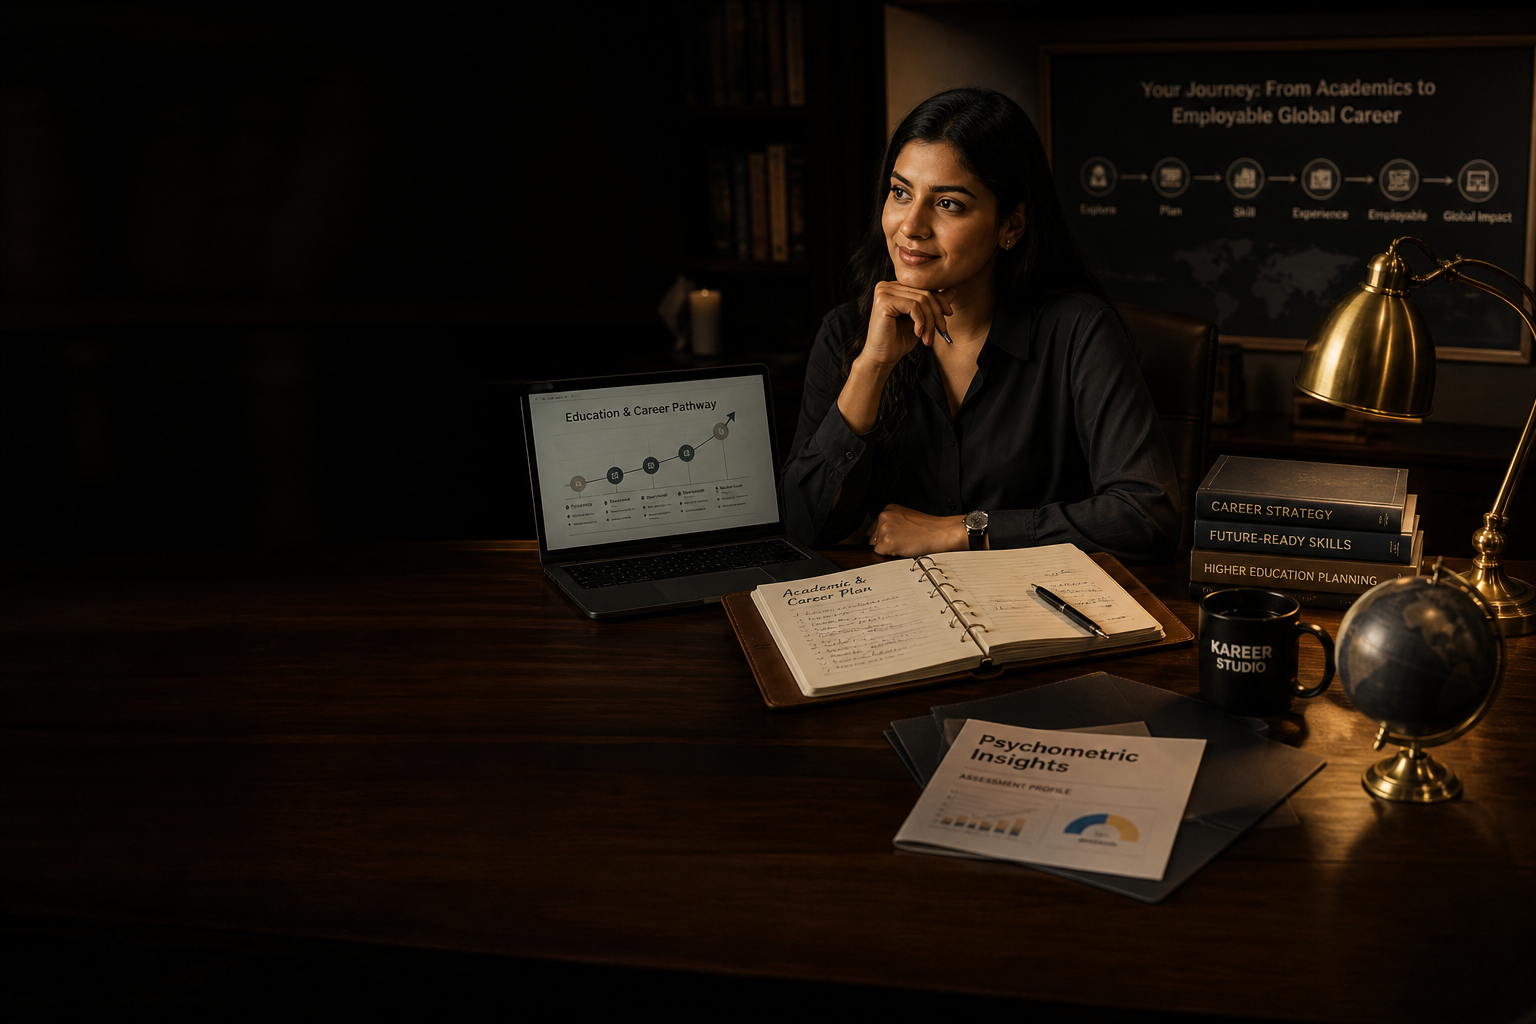
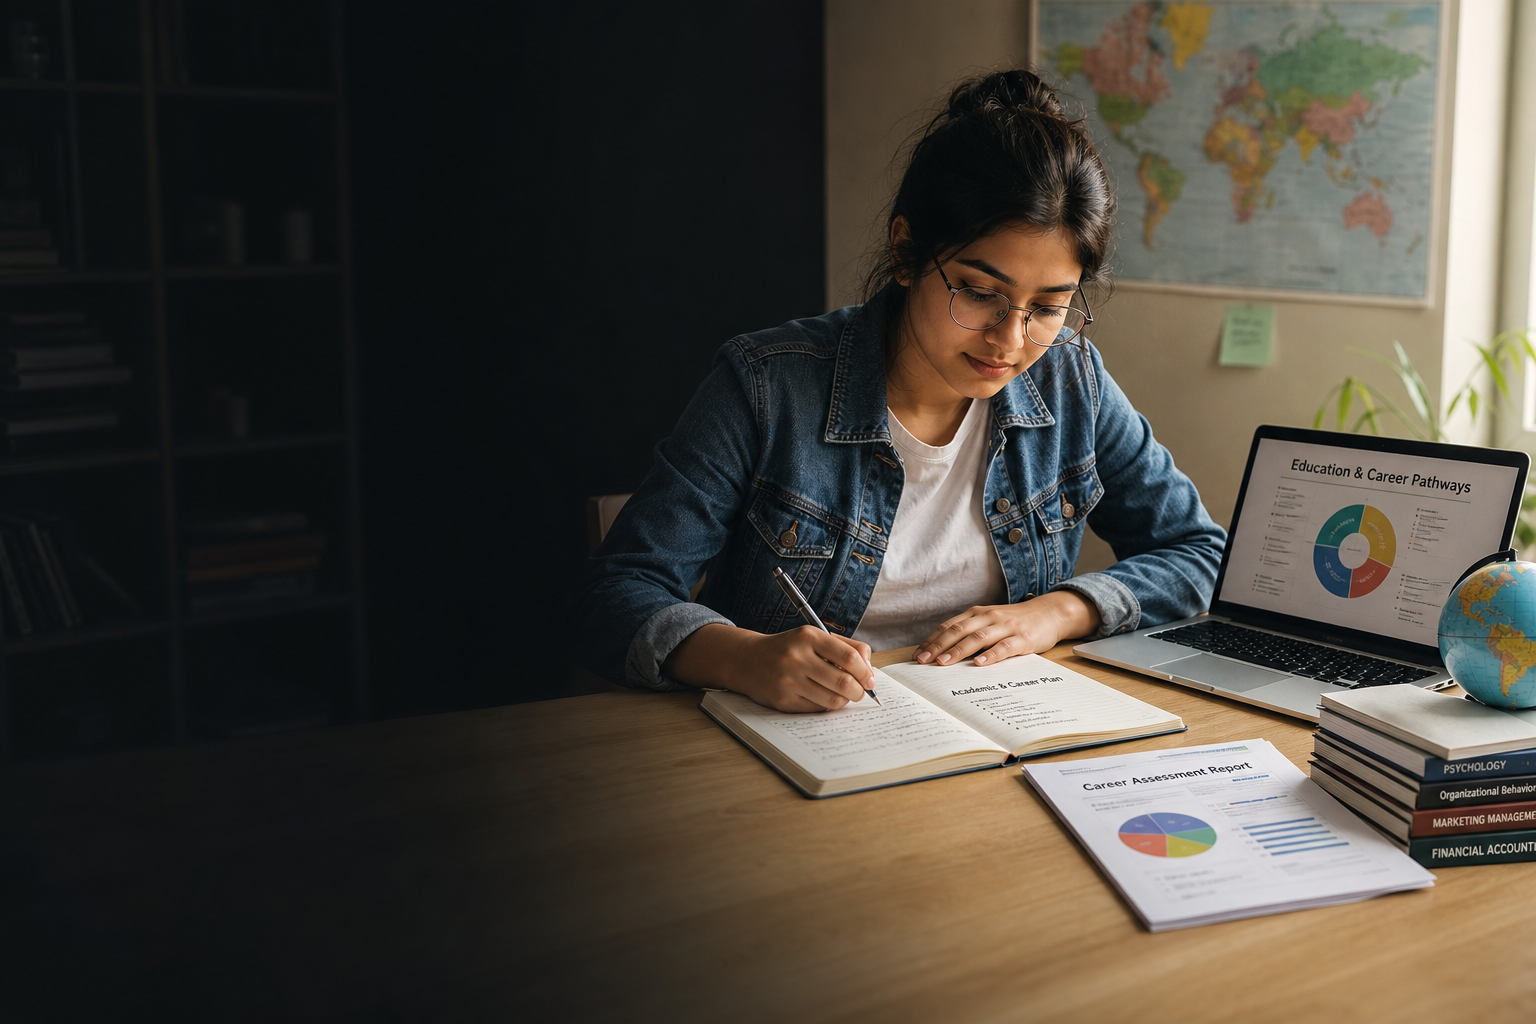
Update hero images and alt text for improved accessibility in HeroSlider and Ivy League components. Adjust image positions for better visual alignment in StripeHero and Ivy League pages. Enhance gradient styles in StripeHero for improved visual depth.

diff --git a/src/components/site/StripeHero.tsx b/src/components/site/StripeHero.tsx
@@ -80,8 +80,11 @@ export function StripeHero({
     imageClassName,
   );
 
-  const gradientClass =
-    "absolute inset-0 bg-gradient-to-t from-black/55 via-black/15 to-transparent";
+  const bottomGradientClass =
+    "pointer-events-none absolute inset-0 bg-gradient-to-t from-black/60 via-black/25 to-transparent";
+
+  const leftGradientClass =
+    "pointer-events-none absolute inset-0 bg-gradient-to-r from-black/85 via-black/55 via-[38%] to-transparent to-[78%]";
 
   const quoteEyebrowClass =
     "font-bold uppercase tracking-[0.22em] text-white animate-reveal text-[10px] sm:text-[11px] lg:text-xs";
@@ -101,7 +104,8 @@ export function StripeHero({
           className={imageClass}
           loading="eager"
         />
-        <div className={gradientClass} />
+        <div className={bottomGradientClass} />
+        <div className={leftGradientClass} />
         <div className="absolute inset-x-0 bottom-0 z-10 px-4 pb-4 pt-10 font-gilroy sm:px-6">
           <p className={quoteEyebrowClass}>{boldKareerStudio(quoteEyebrow)}</p>
           <p className={quoteClass} style={{ animationDelay: "80ms" }}>
@@ -126,9 +130,8 @@ export function StripeHero({
           className={imageClass}
           loading="eager"
         />
-        <div
-          className="absolute inset-0 bg-gradient-to-t from-black/50 via-black/10 to-transparent"
-        />
+        <div className="absolute inset-0 bg-gradient-to-t from-black/55 via-black/20 to-transparent" />
+        <div className={leftGradientClass} />
       </div>
 
       {/* Content: stacks below image on mobile, overlays on desktop */}

diff --git a/src/components/site/HeroSlider.tsx b/src/components/site/HeroSlider.tsx
@@ -6,8 +6,8 @@ export function HeroSlider() {
   return (
     <StripeHero
       image={heroHome}
-      imageAlt="Student planning education and career pathway with academic plan, psychometric insights, and global career roadmap at KAREER Studio"
-      imagePosition="object-[65%_20%]"
+      imageAlt="College student planning education and career pathways in a bright study space with laptop, assessment report, and academic plan notebook"
+      imagePosition="object-[62%_22%]"
       quoteEyebrow="Welcome to KAREER Studio"
       quote="Plan Your Education - Shape Your Career - Build Your Global Future."
       stripeHeading="KAREER Studio"

diff --git a/src/routes/ivy-league.tsx b/src/routes/ivy-league.tsx
@@ -62,7 +62,7 @@ function IvyLeaguePage() {
       <StripeHero
         image={heroIvyLeague}
         imageAlt="Students walking through an ivy-covered Ivy League campus"
-        imagePosition="object-top"
+        imagePosition="object-[28%_top]"
         quoteEyebrow="Ivy League Admissions"
         quote={ivyLeagueHero.quote}
         quoteDetail="Get into Harvard. Yale. Princeton. Columbia - guided by Ivy alumni, with a 95% interview success rate."
